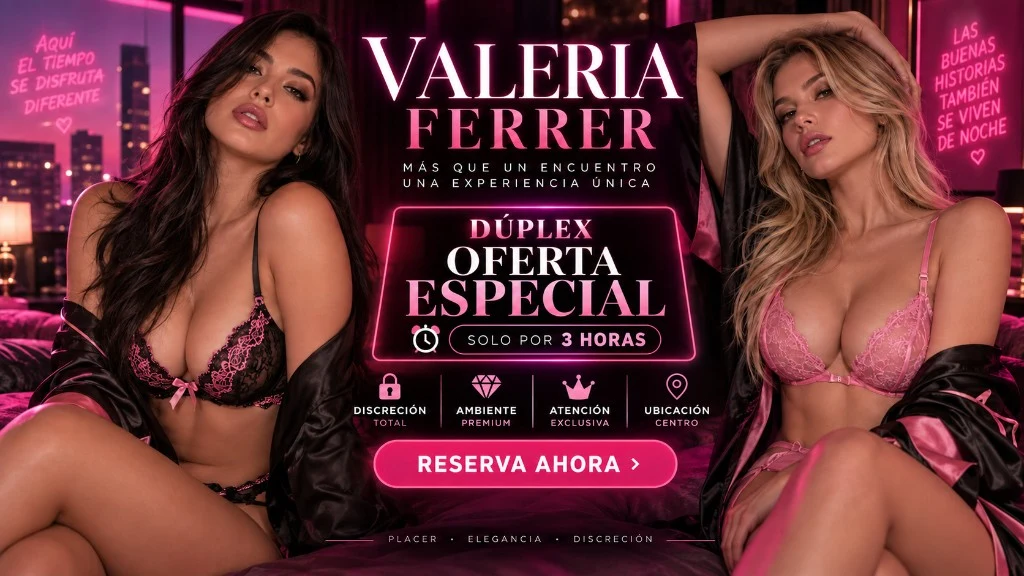
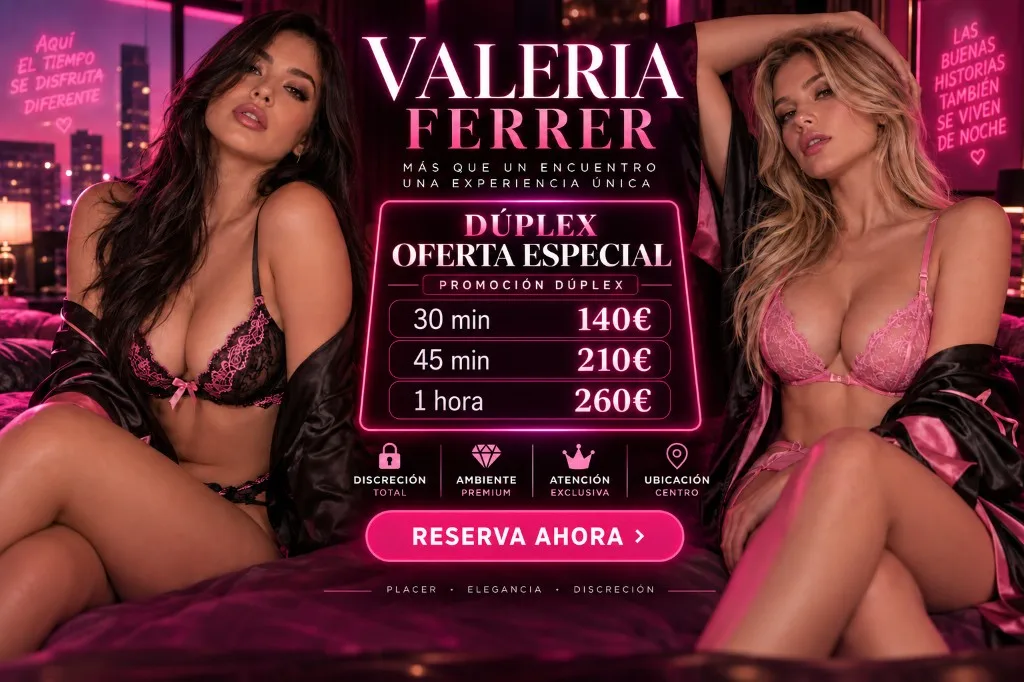
ops: refresh dúplex promo creative with price table
Replace promo-duo.webp with the new duplex banner that shows 30/45/60 rates and cache-bust the asset URL so production picks it up immediately.

diff --git a/lib/promoPopupConfig.ts b/lib/promoPopupConfig.ts
@@ -9,8 +9,8 @@ export type PromoPopupConfig = {
 }
 
 export const ACTIVE_PROMO: PromoPopupConfig = {
-  id: 'promo-2026-10-01-duplex',
-  image: '/promos/promo-duo.webp',
+  id: 'promo-2026-10-01-duplex-precios',
+  image: '/promos/promo-duo.webp?v=duplex-precios-oct2026',
   startsAt: '2026-10-01T12:00:00+02:00',
   endsAt: '2026-10-08T23:59:59+02:00',
   enabled: true,
